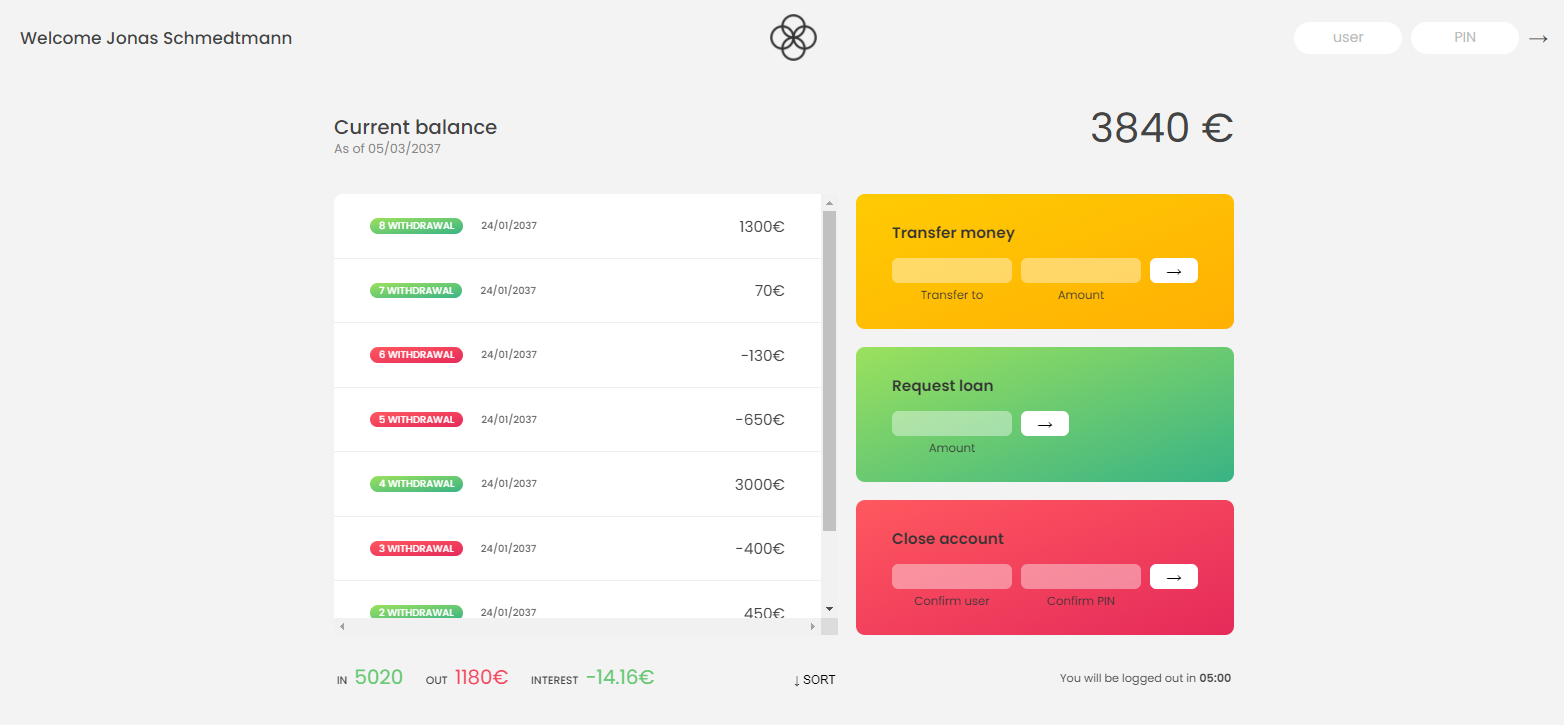
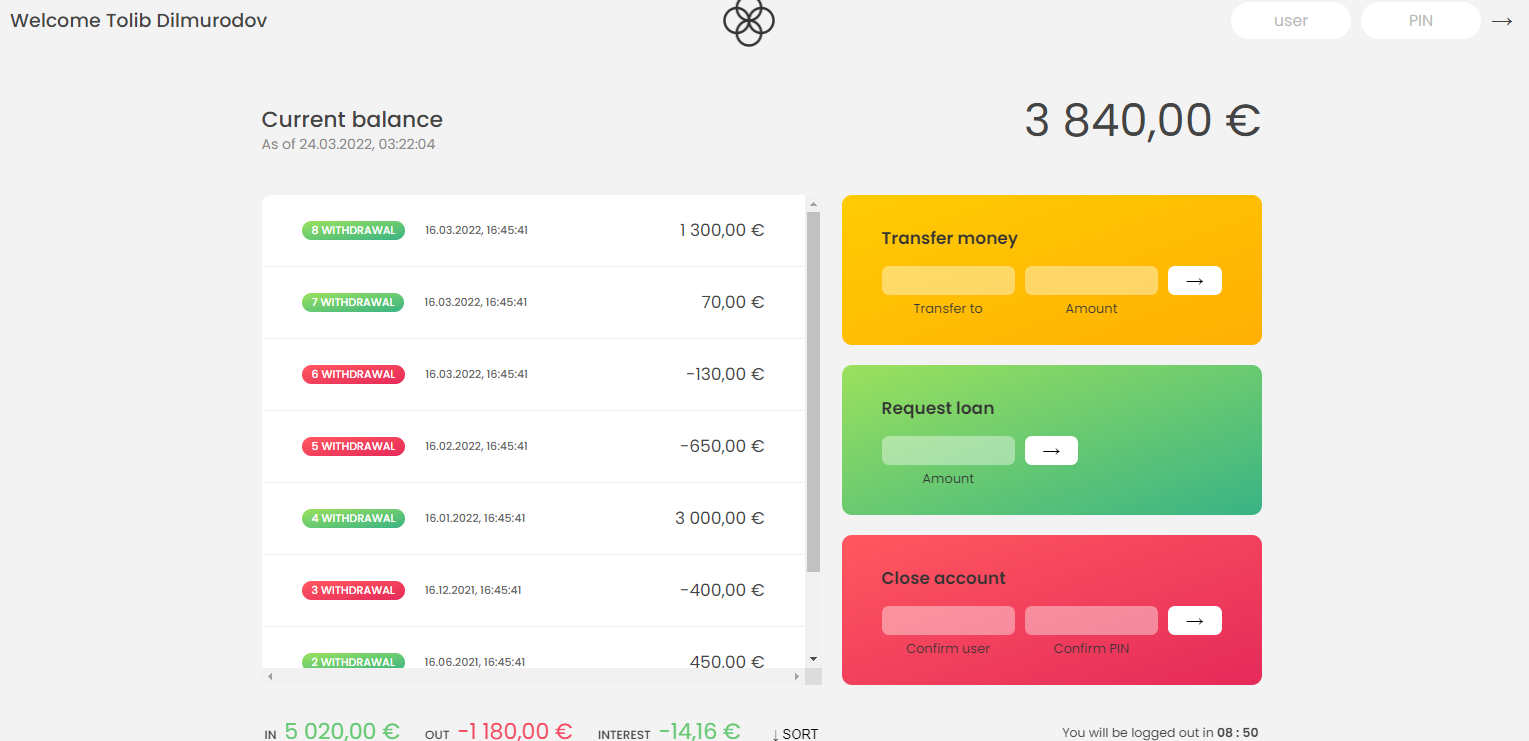
[feat] update script

diff --git a/Bankist/script.js b/Bankist/script.js
@@ -83,7 +83,7 @@ let tempUser = null;
 // Num Manage
 
 const amountFormat = function (user = currentUser, amount) {
-  optionsNum.currency = user.locale;
+  // optionsNum.currency = user.locale;
   return new Intl.NumberFormat(
     user.locale, {
       style: 'currency',
@@ -92,11 +92,21 @@ const amountFormat = function (user = currentUser, amount) {
 }
 
 let date =  new Date();
-let timeH = `${date.getHours()}`.padStart(2, "0")
-let timeM = `${date.getMinutes()}`.padStart(2, "0")
-let year = `${date.getFullYear()},  ${timeH}:${timeM}`.padStart(4, "0");
-let month = `${date.getMonth()}`.padStart(2, "0");
-let day = `${date.getDate()}`.padStart(2, "0");
+// let timeH = `${date.getHours()}`.padStart(2, "0")
+// let timeM = `${date.getMinutes()}`.padStart(2, "0")
+// let year = `${date.getFullYear()},  ${timeH}:${timeM}`.padStart(4, "0");
+// let month = `${date.getMonth()}`.padStart(2, "0");
+// let day = `${date.getDate()}`.padStart(2, "0");
+
+// --- Internationalization API ---
+let options = {
+  year: 'numeric',
+  month: '2-digit',
+  day: '2-digit',
+  hour: 'numeric',
+  minute: 'numeric',
+  second: '2-digit'
+}
 
 
 // MovementsDate 
@@ -114,11 +124,13 @@ let movementsDate = [
 
 // Movementsdate to string
 
-const dateTransaction = function (key) {
-  let [yearTrans, monthTrans, dateTrans] = movementsDate[key].split('T')[0].split('-');
-  let hour = +movementsDate[key].split('T')[1].split(':')[0] + 5 + '';
-  let minute = movementsDate[key].split('T')[1].split(':')[1]
-  return [yearTrans, monthTrans, dateTrans, hour, minute];
+const dateTransaction = function (user, key = 0) {
+  // let [yearTrans, monthTrans, dateTrans] = movementsDate[key].split('T')[0].split('-');
+  // let hour = +movementsDate[key].split('T')[1].split(':')[0] + 5 + '';
+  // let minute = movementsDate[key].split('T')[1].split(':')[1]
+  // return [yearTrans, monthTrans, dateTrans, hour, minute];
+  let transactionDate = new Date(movementsDate[key])
+  return new Intl.DateTimeFormat(user.locale, options).format(transactionDate);
 }
 
 btnLogin.addEventListener('click', (event) => {
@@ -131,7 +143,10 @@ btnLogin.addEventListener('click', (event) => {
     containerApp.style.opacity = 1;
     inputLoginUsername.value = '';
     inputLoginPin.value = '';
-    labelDate.textContent = `${day}/${month}/${year}`;
+    // labelDate.textContent = `${day}/${month}/${year}`;
+    setInterval(() => {
+      labelDate.textContent = new Intl.DateTimeFormat('ru-RU', options).format(new Date())
+    }, 1000);
     createTransactions(currentUser);
     amoutMoney(currentUser);
     cashback(currentUser);
@@ -144,13 +159,13 @@ btnLogin.addEventListener('click', (event) => {
 
 // HTML Transactions Blocks
 
-const transactionBlock = (trsacn, state, key) => `
+const transactionBlock = (user = currentUser, trsacn, state, key) => `
   <div class="movements__row">
     <div class="movements__type movements__type--${state}">
       ${key + 1} withdrawal
     </div>
-    <div class="movements__date">${dateTransaction(key)[2]}/${dateTransaction(key)[1]}/${dateTransaction(key)[0]}, ${dateTransaction(key)[3]}: ${dateTransaction(key)[4]}</div>
-    <div class="movements__value">${trsacn}€</div>
+    <div class="movements__date">${dateTransaction(user, key)}</div>
+    <div class="movements__value">${trsacn}</div>
   </div>`
 
 const createTransactions = function (user) {
@@ -158,7 +173,7 @@ const createTransactions = function (user) {
   user.movements.forEach((item, key) => {
     let state = null;
     if (item < 0) state = 'withdrawal'; else state = 'deposit';
-    containerMovements.insertAdjacentHTML('afterbegin', transactionBlock(amountFormat(user, item.toFixed(2)), state, key));
+    containerMovements.insertAdjacentHTML('afterbegin', transactionBlock(user, amountFormat(user, item.toFixed(2)), state, key));
   })
 }
 
@@ -168,7 +183,8 @@ let sum = null;
 
 const amoutMoney = function (user) {
   sum = user.movements.reduce((acc, item) => acc + item, 0);
-  labelBalance.textContent = `${amountFormat((user, sum))}`;
+  // console.log(sum);
+  labelBalance.textContent = `${amountFormat(user, sum.toFixed(2))}`;
 }
 
 // Interest (komissiya)
@@ -180,9 +196,9 @@ const cashback = function (user) {
   sumOut = user.movements.reduce((acc, item) => item < 0 ? item + acc : acc, 0);
   sumIn = user.movements.reduce((acc, item) => item > 0 ? item + acc : acc, 0);
   let koms = user.movements.filter(item => item < 0).map(item => item * user.interestRate / 100).reduce((acc, item) => acc + item, 0)
-  labelSumInterest.textContent = `${(koms).toFixed(2)}€`;
-  labelSumIn.textContent = `${Math.abs(amountFormat(user, sumIn.toFixed(2)))}`;
-  labelSumOut.textContent = `${Math.abs(amountFormat(user, sumOut.toFixed(2)))}`;
+  labelSumInterest.textContent = `${amountFormat(user, +(koms).toFixed(2))}`;
+  labelSumIn.textContent = `${amountFormat(user, +sumIn.toFixed(2))}`;
+  labelSumOut.textContent = `${amountFormat(user, +sumOut.toFixed(2))}`;
 }
 
 // Transfer Money
@@ -303,7 +319,6 @@ const setTime = function (minut, secund) {
 const setTimer = function () {
   btnLogin.addEventListener('click', () => {
     if (currentUser) {
-      console.log(timeInterval);
       clearInterval(timeInterval);
       clearTimeout(timeOut);
     }
@@ -312,7 +327,7 @@ const setTimer = function () {
   let minut = 10;
   let secund = minut * 60;
 
-  console.log(minut, secund);
+  // console.log(minut, secund);
 
   let time = setTime(minut, secund);
 
